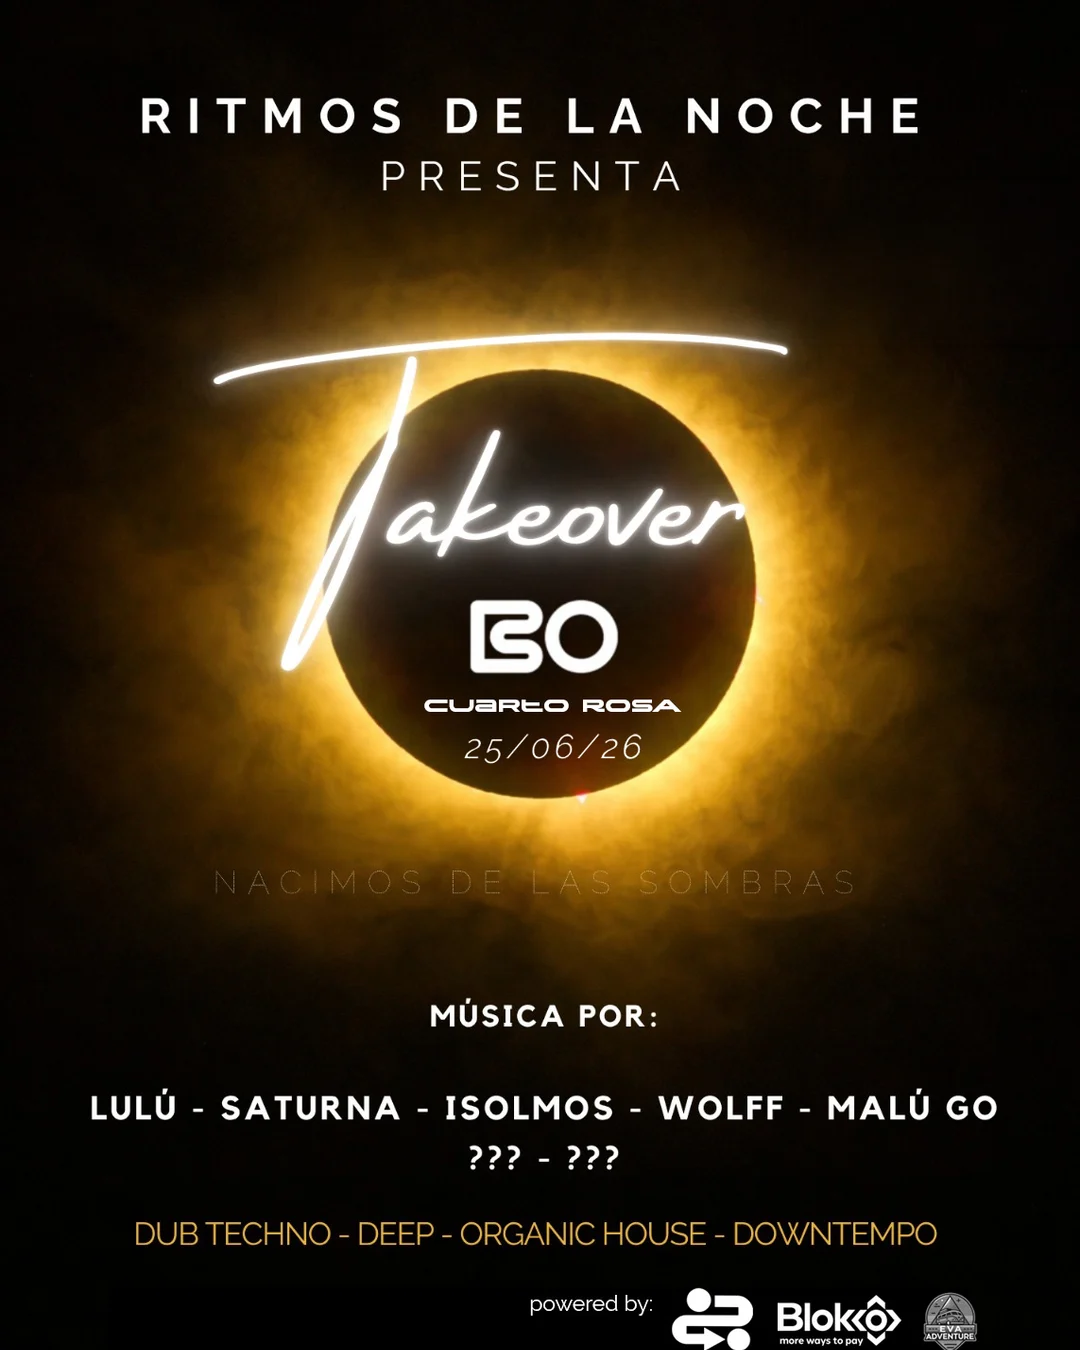
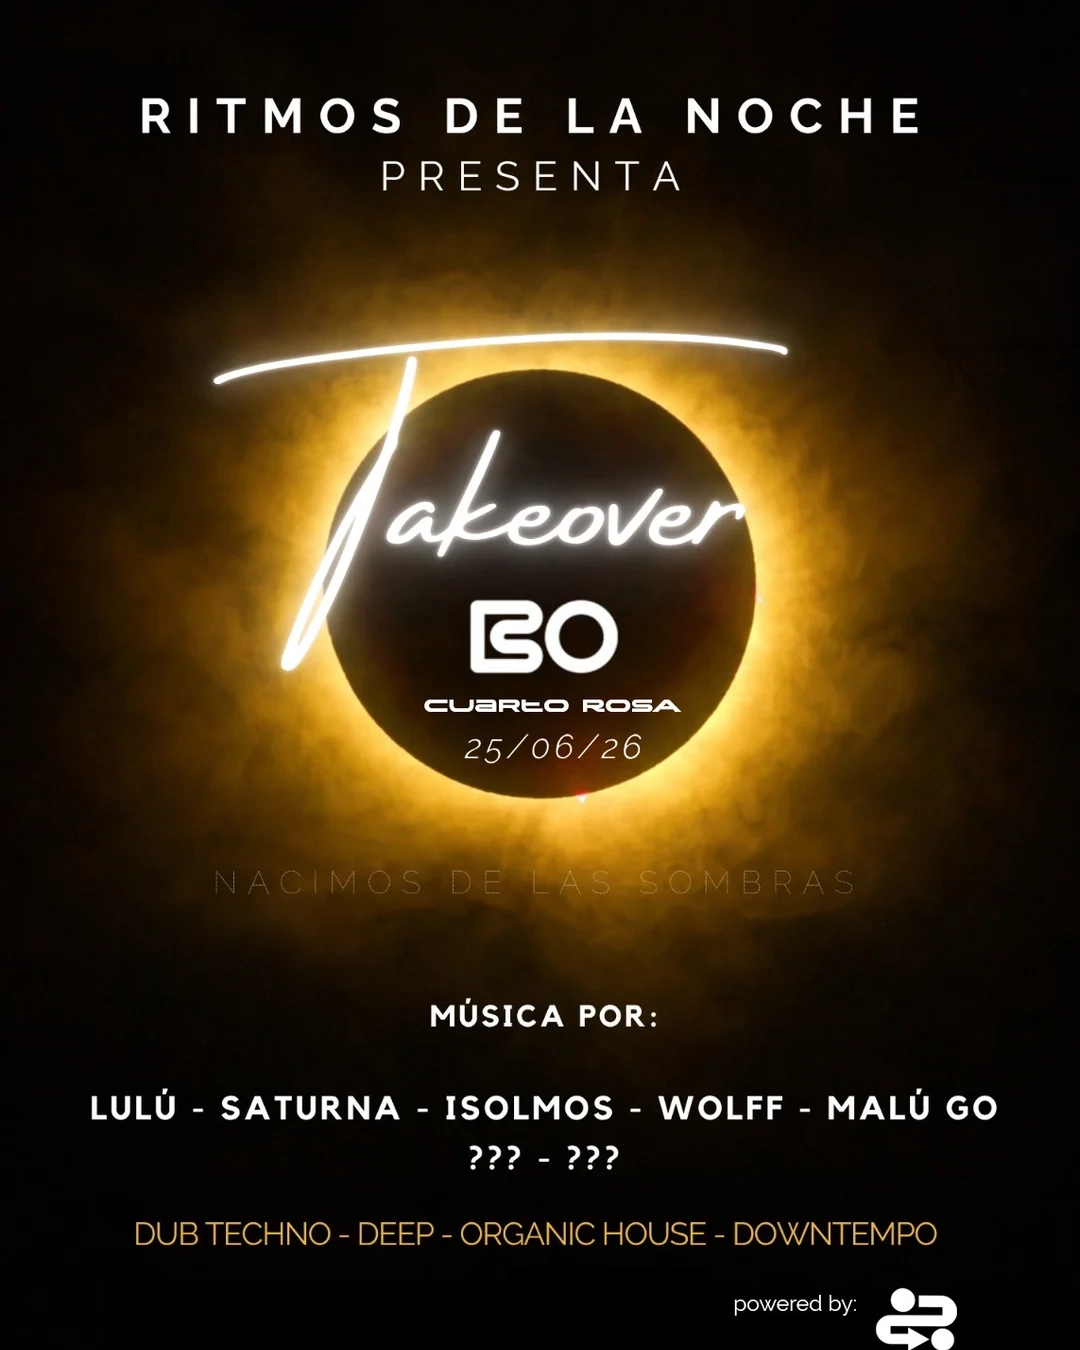
Fix OKX proposal slide copy

Changed region(s): [[0.6111, 0.9333, 0.9167, 1.0], [0.4889, 0.9644, 0.5806, 0.9956]]

diff --git a/public/okxproposal/i18n.js b/public/okxproposal/i18n.js
@@ -76,7 +76,10 @@
       "Uno de los destinos de vida nocturna más fuertes de la Ciudad de México, con una audiencia cultural comprobada. Bar Oriente mueve cerca de 700 asistentes por noche y puede llegar a 1,200 en noches sold out. Activamos solo 500 canjes de bebida para que el beneficio se sienta escaso, cuidado y dirigido. La exposición visual llega al cuarto completo.": "Bar Oriente is one of Mexico City's strongest nightlife venues, with a proven cultural audience. The club brings about 700 attendees per night and can reach 1,200 on sold-out nights. We activate up to 500 drink redemptions so the benefit feels scarce, curated, and targeted. Visual exposure reaches the full room.",
       "@bar_oriente · 92.8K seguidores · 2,429 posts · linktr.ee/baroriente_": "@bar_oriente · 92.8K followers · 2,429 posts · linktr.ee/baroriente_",
       "Para Bar Oriente significa dos noches activadas con programación, producción y contenido": "You get two programmed nights with production and content",
+      "Para Bar Oriente significa una noche activada con programación, producción y contenido": "For Bar Oriente, this means one night activated with programming, production, and content",
       "sin costo en producción extra para la casa": "without adding production cost for the venue",
+      "sin costo extra para los involucrados": "at no extra cost for the involved parties",
+      ": nosotros llenamos el cuarto, traemos el line-up y el arte digital, y las marcas involucradas ganan tráfico, usuarios y contenido, así como una experiencia inmersiva y diferente en la noche de evento.": ": we fill the room, bring the line-up and digital art, and the involved brands get traffic, users, and content, plus a different immersive experience on event night.",
       "Intervención LED , Mapping , Onboarding , Pantallas de recompensa": "LED content, mapping, onboarding, reward screens",
       "El Programa de Junio": "The June Program",
       "Kiosco Morisco": "Kiosco Morisco",
@@ -449,16 +452,16 @@
       "07 / 11, Sistema": "07 / 11, System",
       " en Bar Oriente. El Cuarto Rosa se entrega a su l?nea de DJs para una noche en sintonia con esa agenda.": " at Bar Oriente. Cuarto Rosa opens to its DJ line for one night aligned with that program.",
       "DJ de la Ciudad de M?xico. Presenta un set de house para la noche.": "Mexico City DJ. He presents a house set for the night.",
-      "Para Bar Oriente significa una noche activada con programaci?n, producci?n y contenido": "For Bar Oriente, this means one activated night with programming, production, and content",
-      ": nosotros llenamos el cuarto, traemos el line-up y el arte digital, y la sede gana tr?fico y material de marca de esa fecha, as como una experiencia inmersiva y diferente en la noche de evento.": ": AXIS fills the room, brings the lineup and digital art, and gives the venue traffic, brand material from that date, and a different immersive event-night experience.",
+      "Para Bar Oriente significa una noche activada con programaci?n, producci?n y contenido": "For Bar Oriente, this means one night activated with programming, production, and content",
+      ": nosotros llenamos el cuarto, traemos el line-up y el arte digital, y la sede gana tr?fico y material de marca de esa fecha, as como una experiencia inmersiva y diferente en la noche de evento.": ": we fill the room, bring the line-up and digital art, and the involved brands get traffic, users, and content, plus a different immersive experience on event night.",
       "Componentes de la experiencia": "Experience components",
       "Sistema de experiencia": "Experience system",
       "Un evento": "One event",
       "25 jun \u00b7 noche unica": "Jun 25 \u00b7 one night",
       " en Bar Oriente. El Cuarto Rosa se entrega a su l\u00ednea de DJs para una noche en sintonia con esa agenda.": " at Bar Oriente. Cuarto Rosa opens to its DJ line for one night aligned with that program.",
       "DJ de la Ciudad de M\u00e9xico. Presenta un set de house para la noche.": "Mexico City DJ. He presents a house set for the night.",
-      "Para Bar Oriente significa una noche activada con programaci\u00f3n, producci\u00f3n y contenido": "For Bar Oriente, this means one activated night with programming, production, and content",
-      ": nosotros llenamos el cuarto, traemos el line-up y el arte digital, y la sede gana tr\u00e1fico y material de marca de esa fecha, as\u00ed como una experiencia inmersiva y diferente en la noche de evento.": ": AXIS fills the room, brings the lineup and digital art, and gives the venue traffic, brand material from that date, and a different immersive event-night experience.",
+      "Para Bar Oriente significa una noche activada con programaci\u00f3n, producci\u00f3n y contenido": "For Bar Oriente, this means one night activated with programming, production, and content",
+      ": nosotros llenamos el cuarto, traemos el line-up y el arte digital, y la sede gana tr\u00e1fico y material de marca de esa fecha, as\u00ed como una experiencia inmersiva y diferente en la noche de evento.": ": we fill the room, bring the line-up and digital art, and the involved brands get traffic, users, and content, plus a different immersive experience on event night.",
       "NFC de AXIS": "AXIS NFC",
       "El NFC de AXIS lleva rapido a las misiones OKX: OKX app, OKX Outcomes, OKX Card y OKX Pay.": "AXIS NFC sends guests quickly into OKX missions: OKX app, OKX Outcomes, OKX Card, and OKX Pay.",
       "Tickets de bebida": "Drink tickets",
@@ -494,8 +497,8 @@
       "✓": "✓",
       "Lulú": "Lulú",
       "Jun 25 · one night": "Jun 25 · one night",
-      "Para Bar Oriente significa una noche activada con programación, producción y contenido": "For Bar Oriente, this means one activated night with programming, production, and content",
-      ": nosotros llenamos el cuarto, traemos el line-up y el arte digital, y la sede gana tráfico y material de marca de esa fecha, así como una experiencia inmersiva y diferente en la noche de evento.": ": AXIS fills the room, brings the lineup and digital art, and gives the venue traffic, brand material from that date, and a different immersive event-night experience.",
+      "Para Bar Oriente significa una noche activada con programación, producción y contenido": "For Bar Oriente, this means one night activated with programming, production, and content",
+      ": nosotros llenamos el cuarto, traemos el line-up y el arte digital, y la sede gana tráfico y material de marca de esa fecha, así como una experiencia inmersiva y diferente en la noche de evento.": ": we fill the room, bring the line-up and digital art, and the involved brands get traffic, users, and content, plus a different immersive experience on event night.",
       "DJ de la Ciudad de México. Presenta un set de house para la noche.": "Mexico City DJ. Presents a house set for the night.",
       "Uno de los destinos de vida nocturna más fuertes de la Ciudad de México, con una audiencia cultural comprobada. Bar Oriente mueve cerca de 700 asistentes por noche y puede llegar a 1,200 en noches sold out. Activamos hasta 500 tickets de bebida para alinear la experiencia con la idea inicial de OKX. Además, habilitamos hasta 150 lugares de guestlist sin costo para que OKX pueda sumar invitados propios. La exposición visual llega al cuarto completo.": "Bar Oriente is one of Mexico City's strongest nightlife venues, with a proven cultural audience. The club brings about 700 attendees per night and can reach 1,200 on sold-out nights. We activate up to 500 drink tickets to align the experience with OKX's initial idea. We also enable up to 150 free guestlist spots so OKX can bring its own guests. Visual exposure reaches the full room.",
       "700 asistentes por noche. Hasta 1,200 en sold out. Hasta 500 tickets de bebida alineados con la idea inicial de OKX, más hasta 150 lugares de guestlist sin costo para invitados.": "700 attendees per night. Up to 1,200 on sold-out nights. Up to 500 drink tickets aligned with OKX's initial idea, plus up to 150 free guestlist spots for invited guests.",
@@ -1192,7 +1195,10 @@
       "One Cuarto Rosa takeover night. Exposure reaches the full room. Drink redemptions stay limited. You get OKX app onboarding, OKX Outcomes participation, OKX Card education, OKX Pay reward moments, OKX visuals, content capture, and documentation inside Bar Oriente.": "Cuarto Rosa 一晚接管。视觉曝光覆盖整个房间。最多 500 个饮品兑换。内容包括 OKX app 引导、OKX Outcomes 参与、OKX Card 说明、OKX Pay 奖励时刻、OKX 视觉、内容拍摄以及 Bar Oriente 内的完整记录。",
       "OKX brings users into a real-world football experience people remember. Guests tap AXIS NFC, enter OKX Outcomes, take a match position, and can use OKX Card for on-site cashback moments. Bar Oriente brings about 700 attendees per night, with sold-out nights up to 1,200. Drink tickets stay limited, with a beer first and an OKX shot as the second reward layer.": "OKX 通过令人记住的线下足球体验激活用户。嘉宾触碰 AXIS NFC，进入 OKX Outcomes，选择比赛结果立场，并可在现场了解 OKX Card 返现时刻。Bar Oriente 每晚约 700 人，售罄可达 1,200 人。最多 500 张饮品票券：先啤酒，再以 OKX shot 作为第二层奖励。",
       "AXIS takeover, music curation by Ritmos de La Noche.": "AXIS 接管，音乐策划由 Ritmos de La Noche 负责。",
-      "AXIS takeover, music curation by Ritmos de La Noche": "AXIS 接管，音乐策划由 Ritmos de La Noche 负责"
+      "AXIS takeover, music curation by Ritmos de La Noche": "AXIS 接管，音乐策划由 Ritmos de La Noche 负责",
+      "Para Bar Oriente significa una noche activada con programación, producción y contenido": "对 Bar Oriente 而言，这是一晚由节目、制作与内容驱动的激活",
+      "sin costo extra para los involucrados": "不为相关方增加额外成本",
+      ": nosotros llenamos el cuarto, traemos el line-up y el arte digital, y las marcas involucradas ganan tráfico, usuarios y contenido, así como una experiencia inmersiva y diferente en la noche de evento.": "：AXIS 负责填满房间，带来阵容与数字艺术，相关品牌获得客流、用户和内容，并在活动当晚拥有一个不同的沉浸式体验。"
     }
   };
 
@@ -1288,6 +1294,23 @@
     var fixedCompact = fixMojibakeText(compact);
     var fixedNormalized = fixMojibakeText(normalized);
     var upper = normalized.toUpperCase();
+    var boHead = "Para Bar Oriente significa una noche activada con programaci\u00f3n, producci\u00f3n y contenido";
+    var boCost = "sin costo extra para los involucrados";
+    var boTail = ": nosotros llenamos el cuarto, traemos el line-up y el arte digital, y las marcas involucradas ganan tr\u00e1fico, usuarios y contenido, as\u00ed como una experiencia inmersiva y diferente en la noche de evento.";
+    var boHeadLoose = fixedNormalized.indexOf("Para Bar Oriente significa una noche activada con programaci") === 0 && fixedNormalized.indexOf("producci") > -1 && fixedNormalized.indexOf("contenido") > -1;
+    var boTailLoose = fixedNormalized.indexOf("nosotros llenamos el cuarto") > -1 && fixedNormalized.indexOf("marcas involucradas ganan") > -1 && fixedNormalized.indexOf("usuarios y contenido") > -1;
+    if (fixedNormalized === boHead || normalized === boHead || boHeadLoose) {
+      if (lang === "en") return "For Bar Oriente, this means one night activated with programming, production, and content";
+      if (lang === "zh") return "对 Bar Oriente 而言，这是一晚由节目、制作与内容驱动的激活";
+    }
+    if (fixedNormalized === boCost || normalized === boCost) {
+      if (lang === "en") return "at no extra cost for the involved parties";
+      if (lang === "zh") return "不为相关方增加额外成本";
+    }
+    if (fixedNormalized === boTail || normalized === boTail || boTailLoose) {
+      if (lang === "en") return ": we fill the room, bring the line-up and digital art, and the involved brands get traffic, users, and content, plus a different immersive experience on event night.";
+      if (lang === "zh") return "：AXIS 负责填满房间，带来阵容与数字艺术，相关品牌获得客流、用户和内容，并在活动当晚拥有一个不同的沉浸式体验。";
+    }
     if (upper === "EXPERIENCIAS INESPERADAS EN LUGARES INUSUALES") return "UNEXPECTED EXPERIENCES IN UNUSUAL PLACES";
     if (upper === "EXPERIENCIAS INESPERADAS EN LUGARES INUSUALES.") return "UNEXPECTED EXPERIENCES IN UNUSUAL PLACES.";
     var translated = dict[value] || dict[compact] || dict[normalized] || dict[fixedCompact] || dict[fixedNormalized];

diff --git a/public/okxproposal/axis-vertical.html b/public/okxproposal/axis-vertical.html
@@ -299,11 +299,11 @@ section[data-label="System architecture"] .arch{display:none!important;}
   .s06-cycle{width:min(306px,84vw);margin-top:10px;}
   .s06-cycle::before{inset:13%;box-shadow:0 0 34px var(--accent-glow-soft),inset 0 0 30px rgba(255,255,255,.035);}
   .s06-cycle::after{inset:27%;}
-  .s06-node{width:42px;gap:0;}
+  .s06-node{width:58px;gap:2px;}
   .s06-node .inode{width:34px;height:34px;flex-basis:34px;}
   .s06-node .inode .ic{width:16px;height:16px;}
   .s06-num{left:1px;top:-5px;min-width:17px;height:17px;padding:0 4px;font-size:7px;}
-  .s06-label{display:none;}
+  .s06-label{display:block;font-size:6.2px;line-height:1.05;max-width:58px;color:var(--paper-soft);}
   .s06-hub{width:32%;padding:11px;gap:4px;}
   .s06-hub img{width:40%;}
   .s06-hub b{font-size:10px;}
@@ -661,7 +661,7 @@ globe:'<svg viewBox="0 0 24 24" fill="none" stroke="currentColor" stroke-width="
       </div>
     </div>
     <p class="body" style="font-size:14px;line-height:1.6;margin-top:14px;margin-bottom:12px;" data-anim>Uno de los destinos de vida nocturna más fuertes de la Ciudad de México, con una audiencia cultural comprobada. Bar Oriente mueve cerca de 700 asistentes por noche y puede llegar a 1,200 en noches sold out. Activamos hasta 500 tickets de bebida para alinear la experiencia con la idea inicial de OKX. Además, habilitamos hasta 150 lugares de guestlist sin costo para que OKX pueda sumar invitados propios. La exposición visual llega al cuarto completo.</p>
-    <p class="body" style="font-size:14px;line-height:1.6;" data-anim>Para Bar Oriente significa una noche activada con programación, producción y contenido <span class="hl">sin costo en producción extra para la casa</span>: nosotros llenamos el cuarto, traemos el line-up y el arte digital, y la sede gana tráfico y material de marca de esa fecha, así como una experiencia inmersiva y diferente en la noche de evento.</p>
+    <p class="body" style="font-size:14px;line-height:1.6;" data-anim>Para Bar Oriente significa una noche activada con programación, producción y contenido <span class="hl">sin costo extra para los involucrados</span>: nosotros llenamos el cuarto, traemos el line-up y el arte digital, y las marcas involucradas ganan tráfico, usuarios y contenido, así como una experiencia inmersiva y diferente en la noche de evento.</p>
   </div>
 </section>
 
@@ -673,7 +673,6 @@ globe:'<svg viewBox="0 0 24 24" fill="none" stroke="currentColor" stroke-width="
     <h2 class="title" data-anim>Bar Oriente · <span class="accent">25 jun</span></h2>
     <div style="display:flex;gap:8px;align-items:center;margin-top:10px;flex-wrap:wrap;" data-anim>
       <span class="chip solid" style="font-size:10px;">Lineup</span>
-      <span class="body hl" style="font-size:12px;">AXIS takeover, music curation by Ritmos de La Noche</span>
     </div>
     <p class="body" style="font-size:13px;line-height:1.55;margin-top:10px;" data-anim>AXIS takeover, music curation by Ritmos de La Noche.</p>
     <div style="display:flex;flex-direction:column;gap:12px;margin-top:20px;" data-stagger data-axfx="cell">

diff --git a/public/okxproposal/axis-horizontal.html b/public/okxproposal/axis-horizontal.html
@@ -724,7 +724,7 @@ globe:'<svg viewBox="0 0 24 24" fill="none" stroke="currentColor" stroke-width="
                   <span class="tag">Reconocido con premios</span>
                   <div class="pv-card-head"><h3>Bar Oriente</h3><span class="pv-pill">25 de junio</span></div>
                   <p class="body" style="font-size:23px;line-height:1.55;margin-bottom:14px;max-width:62ch;">Uno de los destinos de vida nocturna más fuertes de la Ciudad de México, con una audiencia cultural comprobada. Bar Oriente mueve cerca de 700 asistentes por noche y puede llegar a 1,200 en noches sold out. Activamos hasta 500 tickets de bebida para alinear la experiencia con la idea inicial de OKX. Además, habilitamos hasta 150 lugares de guestlist sin costo para que OKX pueda sumar invitados propios. La exposición visual llega al cuarto completo.</p>
-                  <p class="body" style="font-size:23px;line-height:1.55;max-width:62ch;">Para Bar Oriente significa una noche activada con programación, producción y contenido <span class="hl">sin costo en producción extra para la casa</span>: nosotros llenamos el cuarto, traemos el line-up y el arte digital, y la sede gana tráfico y material de marca de esa fecha, así como una experiencia inmersiva y diferente en la noche de evento.</p>
+                  <p class="body" style="font-size:23px;line-height:1.55;max-width:62ch;">Para Bar Oriente significa una noche activada con programación, producción y contenido <span class="hl">sin costo extra para los involucrados</span>: nosotros llenamos el cuarto, traemos el line-up y el arte digital, y las marcas involucradas ganan tráfico, usuarios y contenido, así como una experiencia inmersiva y diferente en la noche de evento.</p>
                   <div style="display:grid;grid-template-columns:1fr 1fr;gap:12px;margin:4px 0;">
             <div class="imgslot has-image" style="height:150px;border-radius:8px;" data-ph="Flyer propuesta · 25 jun"><img src="/okxproposal/25jun.webp" alt="Flyer propuesta 25 jun"></div>
                   </div>
@@ -787,7 +787,6 @@ globe:'<svg viewBox="0 0 24 24" fill="none" stroke="currentColor" stroke-width="
             </div>
             <div class="col" style="gap:6px;align-items:flex-end;text-align:right;" data-anim>
               <span class="chip solid">Lineup</span>
-              <span class="body" style="font-size:14px;color:var(--ink-500);">AXIS takeover, music curation by Ritmos de La Noche</span>
             </div>
           </div>
           <div style="display:grid;grid-template-columns:1fr 1fr;gap:18px;margin-top:38px;" data-anim>
